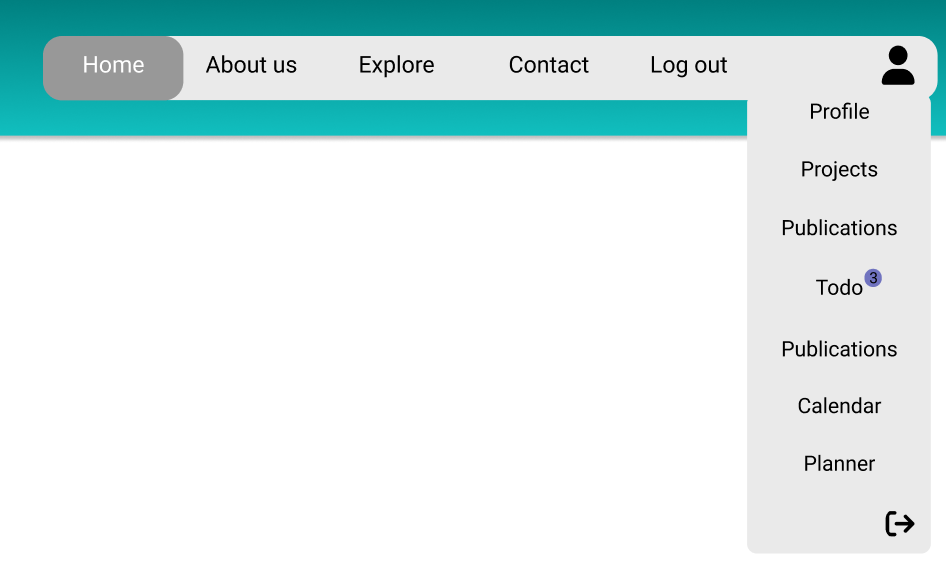
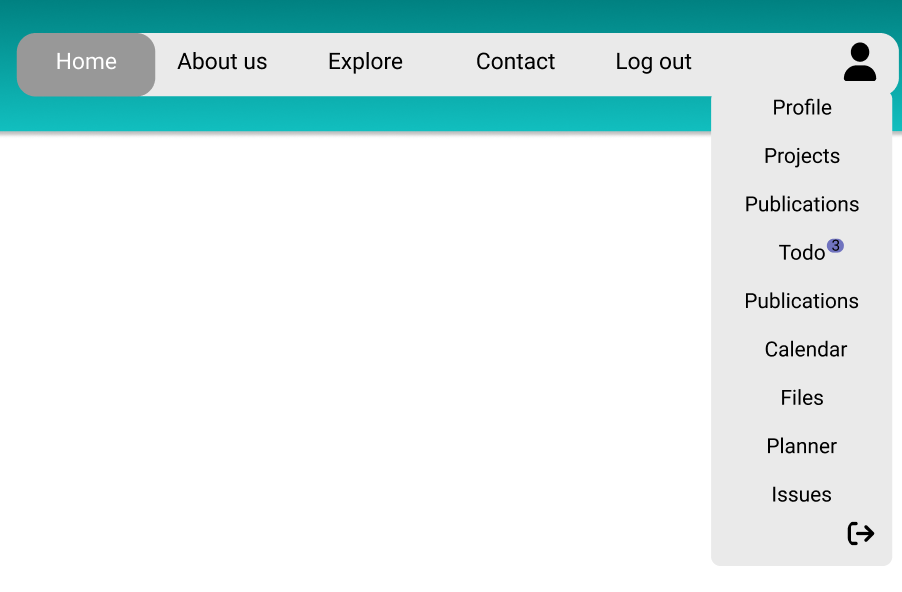
Added content to files.md file

diff --git a/user-documentation/project-docs/files.md b/user-documentation/project-docs/files.md
@@ -1,0 +1,34 @@
+# Files
+
+## Accessing files view
+
+You can access files view by clicking the **"Files"** option at the drop down menu:
+
+<img src='../../img/header.png' height=200>
+
+This will transfer you to the files view:
+
+<img src='../../img/files.png' height=300>
+
+## Adding files
+
+1. Click on the **upload files"** button
+2. This will pop up dialog with file to chose
+3. Click on the correct file
+4. Upload it to your project
+
+## Adding descritpion to your files
+
+1. Click on the **"No description"** field
+2. This will enable you to add desired description
+3. Click away after adding descritpion to your file
+
+## Deleting files
+
+1. Click on the <img src='../../img/xmark.png' height=20> button to the right side of added file
+2. After this the confirmation dialog will pop up:
+
+    <img src='../../img/Delete.png' height=100>
+
+3. Click on **"Yes"** if you want to delete selected file from your inventory
+4. Click **"Cancel"** if you want to cease the operation
